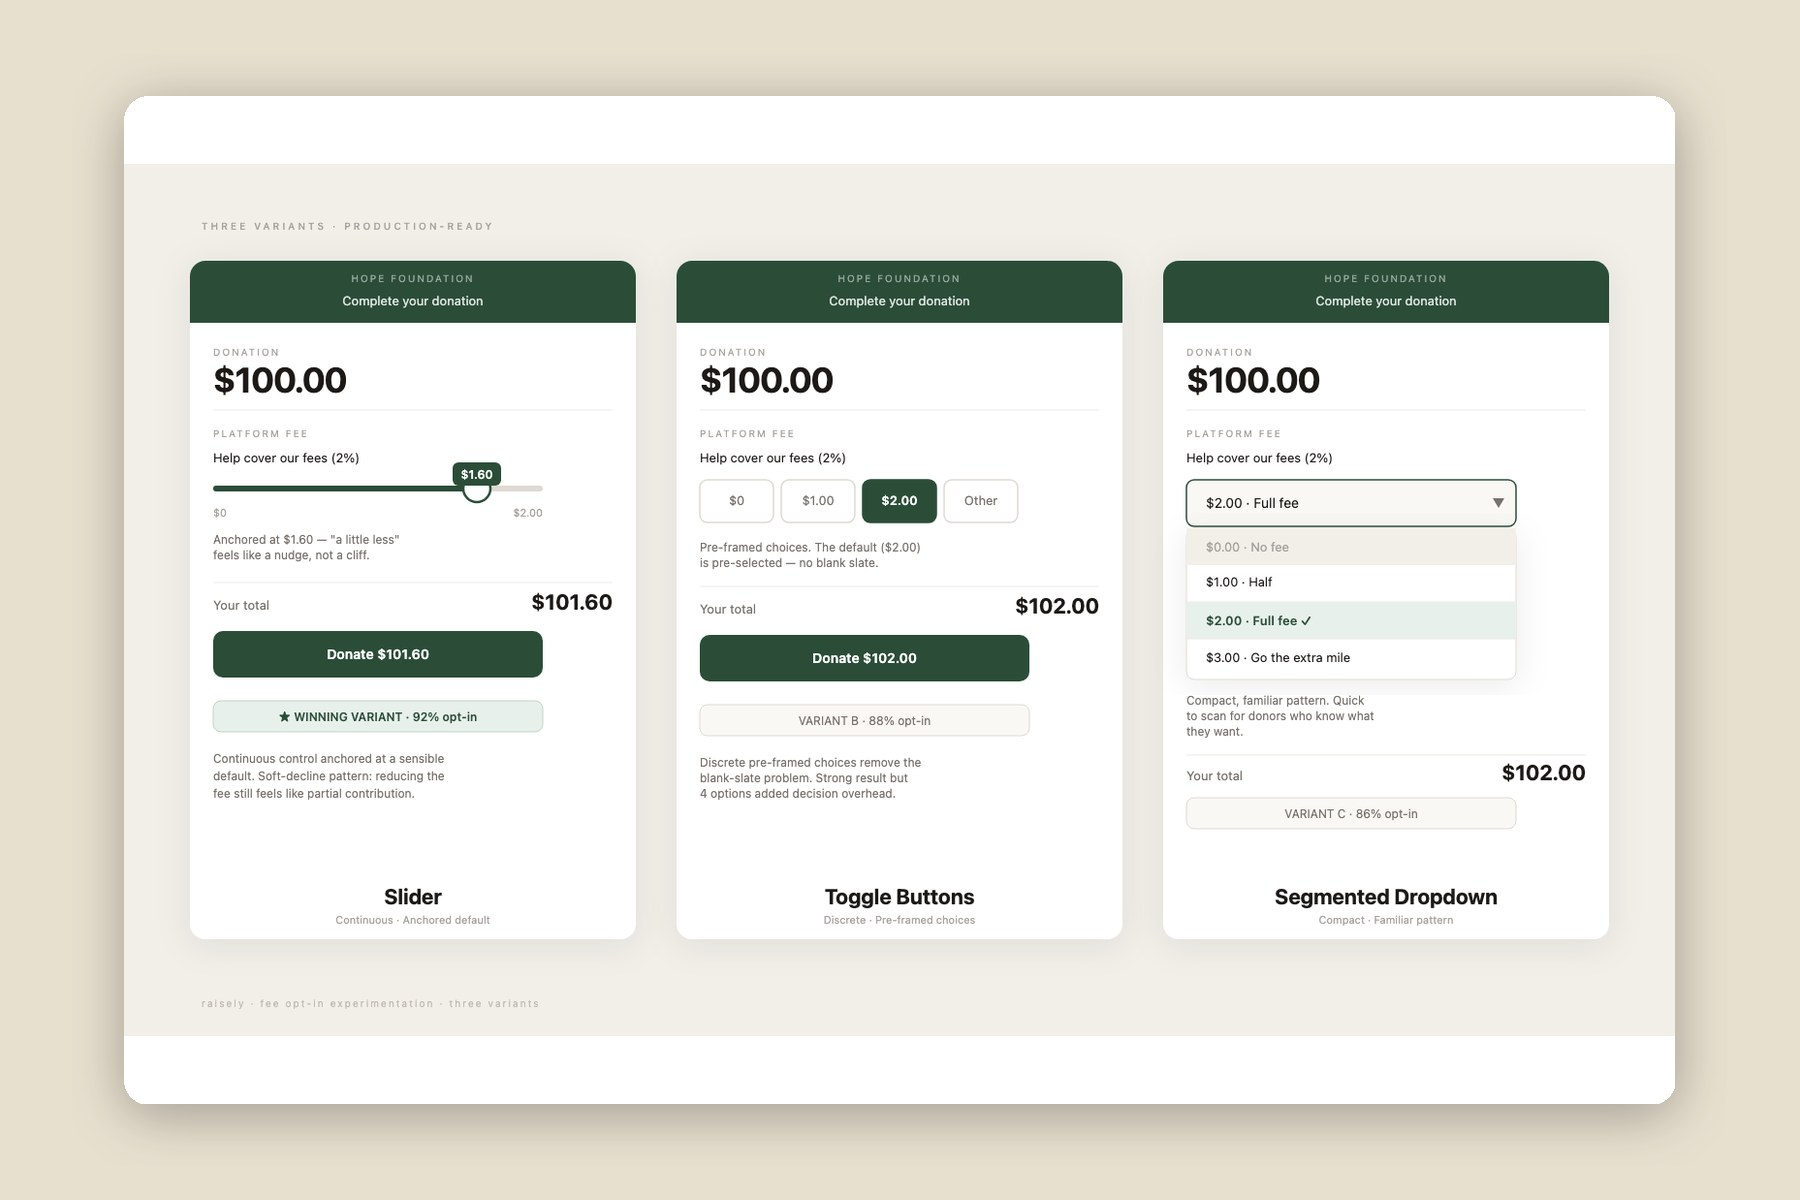
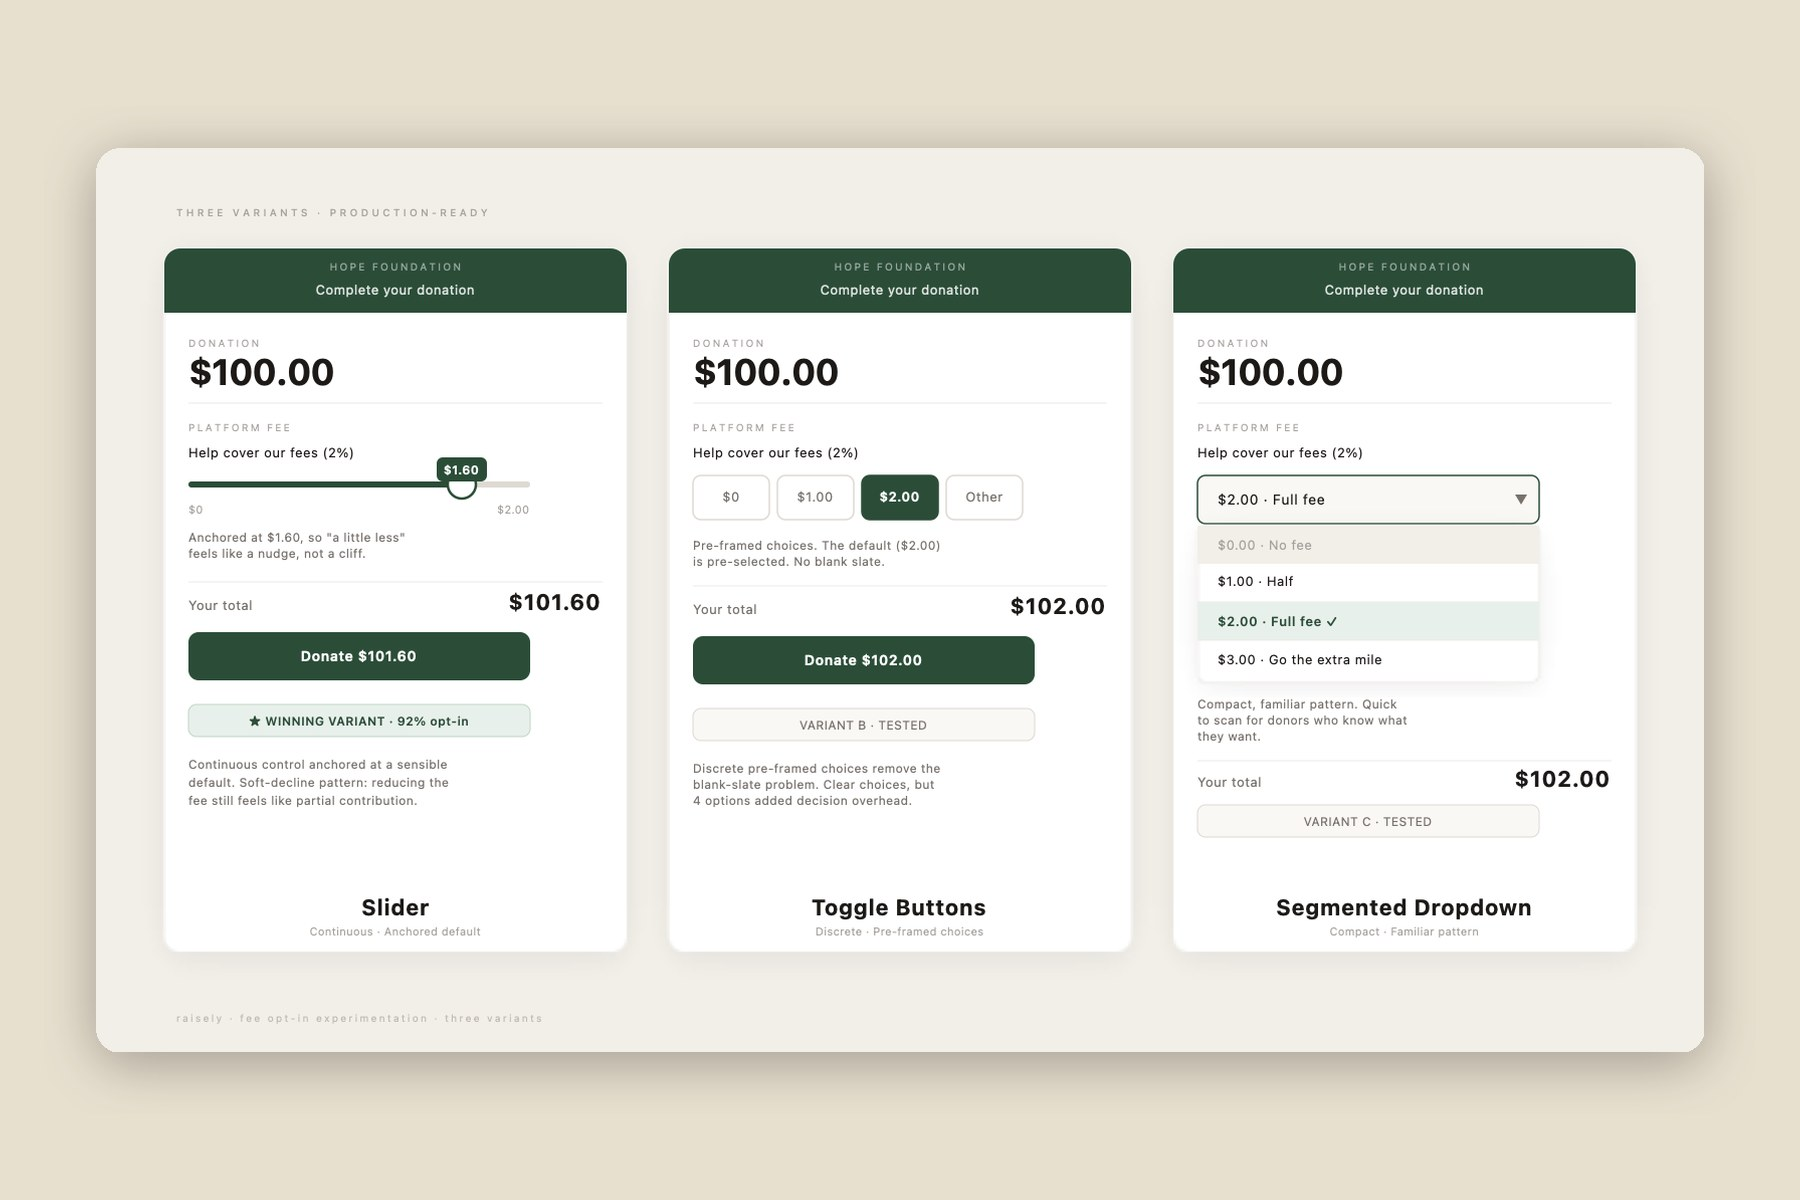
Unblur Fee Opt-In behind a password, demo bars on Fee Opt-In and MyJourney
The Fee Opt-In images were white-labelled recreations, so they are cleaned up
and shown sharp: placeholder variant percentages, invented prototype readouts
and a personal email are gone, overlaps fixed, cover rebuilt. The case sits
behind a soft password lock. A bar under the header links to the interactive
demo on Fee Opt-In and MyJourney, and the checkout demo is on /mastercard.

Changed region(s): [[0.0311, 0.0617, 0.9644, 0.9558], [0.7156, 0.6783, 0.8089, 0.7092]]

diff --git a/public/case/care-pathway/index.html b/public/case/care-pathway/index.html
@@ -292,6 +292,19 @@ body{font-size:18px}
 .glance b{display:block;font-size:40px;line-height:1.05;font-weight:700;letter-spacing:-.02em}
 .glance span{font-size:15px;color:var(--muted);line-height:1.45;display:block;margin-top:6px}
 .chapter{padding-top:88px;scroll-margin-top:64px}
+.topstack{position:sticky;top:env(safe-area-inset-top,0px);z-index:30}
+.topstack .cnav{position:static}
+.tryband{background:var(--banner-bg);color:var(--banner-fg);font-size:14px;line-height:1.4}
+.tryband .wrap{display:flex;align-items:center;gap:6px 12px;flex-wrap:wrap;padding-block:8px}
+.tryband .dot{width:8px;height:8px;border-radius:50%;background:var(--seal);flex:none}
+.tryband .tt{opacity:.85}
+.tryband a{font-weight:600;text-underline-offset:4px}
+.tryband a:hover{opacity:.7}
+@media(max-width:620px){.tryband .tt{display:none}}
+.banner{background:var(--stage);color:var(--muted);font-size:13.5px}
+.chapter{scroll-margin-top:104px}
+#try{scroll-margin-top:120px}
+
 .chead{display:flex;flex-direction:column;align-items:flex-start;gap:10px;max-width:980px}
 .chead .num{font-size:56px;line-height:1;color:var(--seal);font-weight:700;margin-bottom:4px}
 .chead .ck{font-size:13px;letter-spacing:.12em;text-transform:uppercase;font-weight:700;color:var(--muted)}
@@ -313,7 +326,7 @@ body{font-size:18px}
 .slot{border:2px dashed var(--border);border-radius:10px;padding:36px 24px;text-align:center;color:var(--muted);font-size:15px;background:var(--card)}
 .slot b{display:block;color:var(--ink);font-size:16px;margin-bottom:4px}
 .try{display:flex;gap:10px;align-items:baseline;flex-wrap:wrap;font-size:15.5px;color:var(--muted);margin:0 0 14px;max-width:1120px}
-.try b{font-weight:700;font-size:12.5px;letter-spacing:.12em;text-transform:uppercase;background:var(--ink);color:var(--paper);padding:2px 8px;border-radius:4px}
+.try b{font-weight:600;color:var(--ink)}
 .partdiv{margin:8px 0 56px;padding:28px 0 0;border-top:1px solid var(--border);max-width:760px}
 .partdiv .ck{font-size:13px;letter-spacing:.12em;text-transform:uppercase;font-weight:700;color:var(--seal)}
 .partdiv h2{font-size:30px;margin:8px 0 14px}
@@ -340,8 +353,9 @@ details.notes-draft{margin-top:64px;border:1px dashed var(--result-br);border-ra
 details.notes-draft summary{cursor:pointer;font-weight:600}
 @media(max-width:860px){.shots.n2,.shots.n3,.glance{grid-template-columns:1fr}.chead h2{font-size:30px}.chead .num{font-size:42px}.changes td:nth-child(2){width:auto}}
 </style>
+<div class="topstack"><div class="tryband"><div class="wrap"><span class="dot" aria-hidden="true"></span><span class="tt">I rebuilt these dashboards as working redesigns you can click through.</span><a href="#try">Try the interactive version <svg aria-hidden="true" width="0.95em" height="0.95em" viewBox="0 0 24 24" fill="none" stroke="currentColor" stroke-width="2.25" stroke-linecap="round" stroke-linejoin="round" style="vertical-align:-0.13em"><path d="M12 5v14"/><path d="m19 12-7 7-7-7"/></svg></a></div></div>
+<nav class="cnav" aria-label="Chapters"><div class="wrap"><a href="#overview" aria-current="false">Overview</a><a href="#patient" aria-current="false">01 Patient view</a><a href="#pathway" aria-current="false">02 Care pathway</a><a href="#conferences" aria-current="false">03 Conferences</a><a href="#regions" aria-current="false">04 Regions</a><a href="#patterns" aria-current="false">05 Patterns</a><a href="#proof" aria-current="false">06 Proof</a></div></nav></div>
 <div class="banner"><div class="wrap"><span>Names, IDs, hospitals and logos in the original screens are blurred. Click any original screen to enlarge it.</span></div></div>
-<nav class="cnav" aria-label="Chapters"><div class="wrap"><a href="#overview" aria-current="false">Overview</a><a href="#patient" aria-current="false">01 Patient view</a><a href="#pathway" aria-current="false">02 Care pathway</a><a href="#conferences" aria-current="false">03 Conferences</a><a href="#regions" aria-current="false">04 Regions</a><a href="#patterns" aria-current="false">05 Patterns</a><a href="#proof" aria-current="false">06 Proof</a></div></nav>
 <div class="wrap">
 <header class="hero" id="overview" data-spy>
   <div class="eyebrow">Case study &middot; Healthcare &middot; Data visualization</div>
@@ -371,7 +385,7 @@ details.notes-draft summary{cursor:pointer;font-weight:600}
   <p class="csum">PT-0938&rsquo;s plan gives surgery 28 days. Today is day 36 of it. Before a whole clinic, the question for one person: where are they in treatment, and are they on schedule?</p>
   <div class="phase">Before</div>
   <div class="shots" style="grid-template-columns:minmax(0,1fr) 190px"><figure class="shot"><button class="zoom" type="button" data-cap="Original journey stepper" aria-label="Enlarge: Original journey stepper"><img src="assets/then-stepper.png" alt="Original stepper: diagnosis and chemotherapy done, surgery current" loading="lazy"><span class="pin" style="left:54%;top:36%">1</span></button><figcaption>Original journey stepper</figcaption></figure><figure class="shot"><button class="zoom" type="button" data-cap="Original progress ring" aria-label="Enlarge: Original progress ring"><img src="assets/then-ring.png" alt="Ring reading 15 days of 28" loading="lazy"><span class="pin" style="left:80%;top:20%">2</span></button><figcaption>Original progress ring</figcaption></figure></div>
-  <div class="phase after">After</div>
+  <div class="phase after" id="try">After</div>
   <p class="try"><b>Try it</b>Switch between patients, or pick anyone from the clinic view in the next section.</p>
   <div class="stage" id="timeline"><div class="gcard">
   <div class="fbar" id="ptbar" style="margin-bottom:16px"><span class="fl">Patient</span></div>

diff --git a/components/CaseLock.tsx b/components/CaseLock.tsx
@@ -1,0 +1,96 @@
+"use client";
+
+import { useEffect, useState, type FormEvent, type ReactNode } from "react";
+
+// A soft lock for case studies about confidential products. The site is a
+// static export and this repo is public, so this keeps casual visitors out,
+// nothing more. Only a SHA-256 of the salted password is stored.
+const SALT = "mooque/locked-case:";
[1 lines of base64/hex data omitted]
+const STORE = "case-unlocked";
+
+async function hash(value: string) {
+  const bytes = await crypto.subtle.digest("SHA-256", new TextEncoder().encode(SALT + value));
+  return Array.from(new Uint8Array(bytes), (b) => b.toString(16).padStart(2, "0")).join("");
+}
+
+export default function CaseLock({ title, children }: { title: string; children: ReactNode }) {
+  const [open, setOpen] = useState<boolean | null>(null);
+  const [value, setValue] = useState("");
+  const [wrong, setWrong] = useState(false);
+
+  useEffect(() => {
+    let saved = false;
+    try {
+      saved = localStorage.getItem(STORE) === CHECK;
+    } catch {}
+    // eslint-disable-next-line react-hooks/set-state-in-effect
+    setOpen(saved);
+  }, []);
+
+  useEffect(() => {
+    // Once unlocked, honour a #hash in the link, which had nowhere to land before.
+    if (open && location.hash) document.getElementById(location.hash.slice(1))?.scrollIntoView();
+  }, [open]);
+
+  const submit = async (e: FormEvent) => {
+    e.preventDefault();
+    if ((await hash(value)) === CHECK) {
+      try {
+        localStorage.setItem(STORE, CHECK);
+      } catch {}
+      setOpen(true);
+    } else {
+      setWrong(true);
+    }
+  };
+
+  if (open) return <>{children}</>;
+  if (open === null) return <div className="min-h-[60vh]" aria-hidden />;
+
+  return (
+    <div className="max-w-6xl mx-auto px-6 pt-36 pb-32">
+      <div className="max-w-[520px]">
+        <p className="microlabel text-muted">Password protected</p>
+        <h1 className="mt-3 text-[32px] md:text-[44px] leading-[1.08] font-medium tracking-[-0.03em] text-balance">
+          {title.split(":")[0]}
+        </h1>
+        <p className="mt-4 text-[16px] leading-relaxed text-muted">
+          This one covers a confidential product, so I share it with the teams I&rsquo;m
+          talking to. If you don&rsquo;t have the password, email me at{" "}
+          <a href="mailto:allensmkang@gmail.com" className="text-foreground underline underline-offset-4">
+            allensmkang@gmail.com
+          </a>
+          .
+        </p>
+        <form onSubmit={submit} className="mt-8 flex flex-col gap-3 sm:flex-row">
+          <label htmlFor="case-password" className="sr-only">
+            Password
+          </label>
+          <input
+            id="case-password"
+            type="password"
+            autoComplete="current-password"
+            value={value}
+            onChange={(e) => {
+              setValue(e.target.value);
+              setWrong(false);
+            }}
+            aria-invalid={wrong}
+            aria-describedby={wrong ? "case-password-error" : undefined}
+            className="h-11 min-w-0 flex-1 rounded-lg border border-border bg-background px-3.5 text-[15px] focus:border-foreground focus:outline-none"
+            placeholder="Password"
+          />
+          <button type="submit" className="h-11 rounded-lg bg-foreground px-5 text-[15px] font-medium text-background hover:opacity-85 transition-opacity">
+            Unlock
+          </button>
+        </form>
+        {wrong && (
+          <p id="case-password-error" role="alert" className="mt-3 text-[14px] text-[var(--seal)]">
+            That isn&rsquo;t it. Check the capitals and symbols, or email me for it.
+          </p>
+        )}
+      </div>
+    </div>
+  );
+}

diff --git a/app/(portfolio)/mastercard/page.tsx b/app/(portfolio)/mastercard/page.tsx
@@ -6,6 +6,7 @@ import { getProject } from "@/lib/content";
 import FadeIn from "@/components/FadeIn";
 import ProjectCard from "@/components/ProjectCard";
 import Arrow from "@/components/Arrow";
+import FeeSliderDemo from "@/components/FeeSliderDemo";
 
 // A tailored, unlisted view of the portfolio for one reviewer. Not in the
 // sitemap, not in the nav, and kept out of search results on purpose.
@@ -221,12 +222,28 @@ export default async function MastercardPage() {
                 three fixes against the control, and the slider reached 92% with
                 conversion steady.
               </p>
-              <Link href="/work/fee-opt-in-experimentation" className="mt-5 inline-flex text-sm underline underline-offset-4 hover:opacity-70 transition-opacity">
+              <a href="#mc-try" className="mt-5 inline-flex text-sm underline underline-offset-4 hover:opacity-70 transition-opacity">
                 Try the fee decision yourself <Arrow />
-              </Link>
+              </a>
             </figure>
           </section>
         </FadeIn>
+
+        <section className="mt-24 scroll-mt-24" aria-labelledby="mc-try-label" id="mc-try">
+          <h2 id="mc-try-label" className="microlabel text-muted">
+            Try the fee decision
+          </h2>
+          <p className="mt-3 max-w-[60ch] text-[16px] leading-relaxed">
+            A white-labelled rebuild of the checkout. Pick a gift, click Edit on the
+            fee, and switch between the legacy fallback and the three variants we tested.
+          </p>
+          <div className="mt-8">
+            <FeeSliderDemo />
+          </div>
+          <Link href="/work/fee-opt-in-experimentation" className="mt-6 inline-flex text-sm underline underline-offset-4 hover:opacity-70 transition-opacity">
+            Read the full case <Arrow />
+          </Link>
+        </section>
 
         <FadeIn delay={0.15}>
           <section className="mt-24" aria-labelledby="mc-principles">

diff --git a/components/ChapterNav.tsx b/components/ChapterNav.tsx
@@ -5,13 +5,16 @@ import Arrow from "@/components/Arrow";
 
 // Sticky chapter pills for a case study, under the site header. The pill for
 // the chapter in view is filled, and the row scrolls sideways to keep it shown.
-// An optional button on the right opens the live product.
+// An optional button on the right opens the live product, and an optional
+// band above the pills points to an interactive demo further down the page.
 export default function ChapterNav({
   items,
   cta,
+  demo,
 }: {
   items: { id: string; label: string }[];
   cta?: { href: string; label: string };
+  demo?: { text: string; href: string };
 }) {
   const [active, setActive] = useState(items[0]?.id ?? "");
   const rowRef = useRef<HTMLDivElement>(null);
@@ -53,6 +56,17 @@ export default function ChapterNav({
       aria-label="Chapters"
       className="sticky top-16 z-40 mt-16 border-b border-border bg-background/95 backdrop-blur-sm"
     >
+      {demo && (
+        <div className="bg-foreground text-background">
+          <div className="max-w-6xl mx-auto px-6 py-2 flex items-center gap-x-3 gap-y-1 flex-wrap text-[13.5px] leading-snug">
+            <span aria-hidden className="h-2 w-2 flex-none rounded-full bg-[var(--seal)]" />
+            <span className="hidden sm:inline opacity-85">{demo.text}</span>
+            <a href={demo.href} className="font-medium underline underline-offset-4 hover:opacity-70 transition-opacity">
+              Try the interactive version <Arrow dir="down" />
+            </a>
+          </div>
+        </div>
+      )}
       <div className="max-w-6xl mx-auto px-6 flex items-center gap-3">
         <div
           ref={rowRef}

diff --git a/lib/changelog.ts b/lib/changelog.ts
@@ -14,6 +14,13 @@ export interface ChangelogEntry {
 export const changelog: ChangelogEntry[] = [
   {
     date: "2026-10-13",
+    title: "Fee Opt-In unblurred, behind a password",
+    tags: ["design", "content"],
+    what: "The Fee Opt-In screens are no longer blurred. They were always white-labelled recreations, so I cleaned them up instead: removed two placeholder percentages for the losing variants, made-up prototype readouts and a personal email, fixed overlapping labels, and rebuilt the cover. The case now asks for a password, with an email link for anyone who needs it. The Fee Opt-In and MyJourney pages each have a slim bar under the header that jumps straight to the interactive version, and the checkout demo now sits on the Mastercard page too.",
+    why: "Blurred images made the case hard to read. The password keeps a confidential product's story for the teams I'm talking to, and the bar means nobody has to hunt for the part they can actually try.",
+  },
+  {
+    date: "2026-10-13",
     title: "The whole fee experiment, playable",
     tags: ["design", "engineering"],
     what: "The Fee Opt-In demo is now a full white-labelled checkout for a fictional charity: pick a gift, click Edit on the fee, and switch between the legacy fallback and all three variants that were tested (slider, toggle buttons, segmented dropdown). Each one shows what the charity actually receives, and Donate ends on a receipt.",

diff --git a/app/(portfolio)/work/[slug]/page.tsx b/app/(portfolio)/work/[slug]/page.tsx
@@ -12,6 +12,7 @@ import PenMarks from "@/components/PenMarks";
 import Arrow from "@/components/Arrow";
 import GlanceValue from "@/components/GlanceValue";
 import CaseSeal from "@/components/CaseSeal";
+import CaseLock from "@/components/CaseLock";
 
 interface PageProps {
   params: Promise<{ slug: string }>;
@@ -87,12 +88,13 @@ export default async function CaseStudyPage({ params }: PageProps) {
     ["Tools", frontmatter.tools?.join(", ")],
   ];
 
-  return (
+  const body = (
     <article className="pb-24 md:pb-32">
       {chapters.length > 1 && (
         <ChapterNav
           items={navItems}
           cta={frontmatter.liveUrl ? { href: frontmatter.liveUrl, label: "Open the live app" } : undefined}
+          demo={frontmatter.demo ? { text: frontmatter.demo[0], href: frontmatter.demo[1] } : undefined}
         />
       )}
 
@@ -327,4 +329,5 @@ export default async function CaseStudyPage({ params }: PageProps) {
       <PenMarks />
     </article>
   );
+  return frontmatter.locked ? <CaseLock title={frontmatter.title}>{body}</CaseLock> : body;
 }

diff --git a/components/Arrow.tsx b/components/Arrow.tsx
@@ -1,8 +1,8 @@
-import { ArrowLeft, ArrowRight, ArrowUp, ArrowUpRight } from "lucide-react";
+import { ArrowDown, ArrowLeft, ArrowRight, ArrowUp, ArrowUpRight } from "lucide-react";
 
 // The site's one arrow: a drawn icon with a real arrowhead, sized to the
-// text around it, instead of the thin text glyphs (← → ↑ ↗).
-const ICONS = { left: ArrowLeft, right: ArrowRight, up: ArrowUp, "up-right": ArrowUpRight };
+// text around it, instead of the thin text glyphs (← → ↑ ↓ ↗).
+const ICONS = { left: ArrowLeft, right: ArrowRight, up: ArrowUp, down: ArrowDown, "up-right": ArrowUpRight };
 
 export default function Arrow({
   dir = "right",

diff --git a/app/globals.css b/app/globals.css
@@ -622,16 +622,13 @@ html {
   margin: 2rem 0 0.875rem;
   font-size: 15.5px;
   color: var(--muted);
+  /* Clears the site header, chapter pills and demo band when linked to. */
+  scroll-margin-top: 180px;
 }
+/* A plain label, not a pill: a pill reads as a button that does nothing. */
 .case-body .try b {
-  padding: 2px 8px;
-  border-radius: 4px;
-  background: var(--foreground);
-  color: var(--background);
-  font-size: 12px;
-  font-weight: 700;
-  letter-spacing: 0.12em;
-  text-transform: uppercase;
+  color: var(--foreground);
+  font-weight: 600;
 }
 .case-body > [data-demo] {
   margin: 0 0 2rem;

diff --git a/lib/content.ts b/lib/content.ts
@@ -40,6 +40,11 @@ export interface ProjectFrontmatter {
   links?: [string, string][];
   // People who built it with Allen: [name, role, url?]. Name may be empty.
   credits?: [string, string, string?][];
+  // An interactive demo further down the page: [band text, anchor]. Shows a
+  // band under the header that links to it from anywhere on the page.
+  demo?: [string, string];
+  // Behind a password (see CaseLock).
+  locked?: boolean;
 }
 
 export interface Heading {
